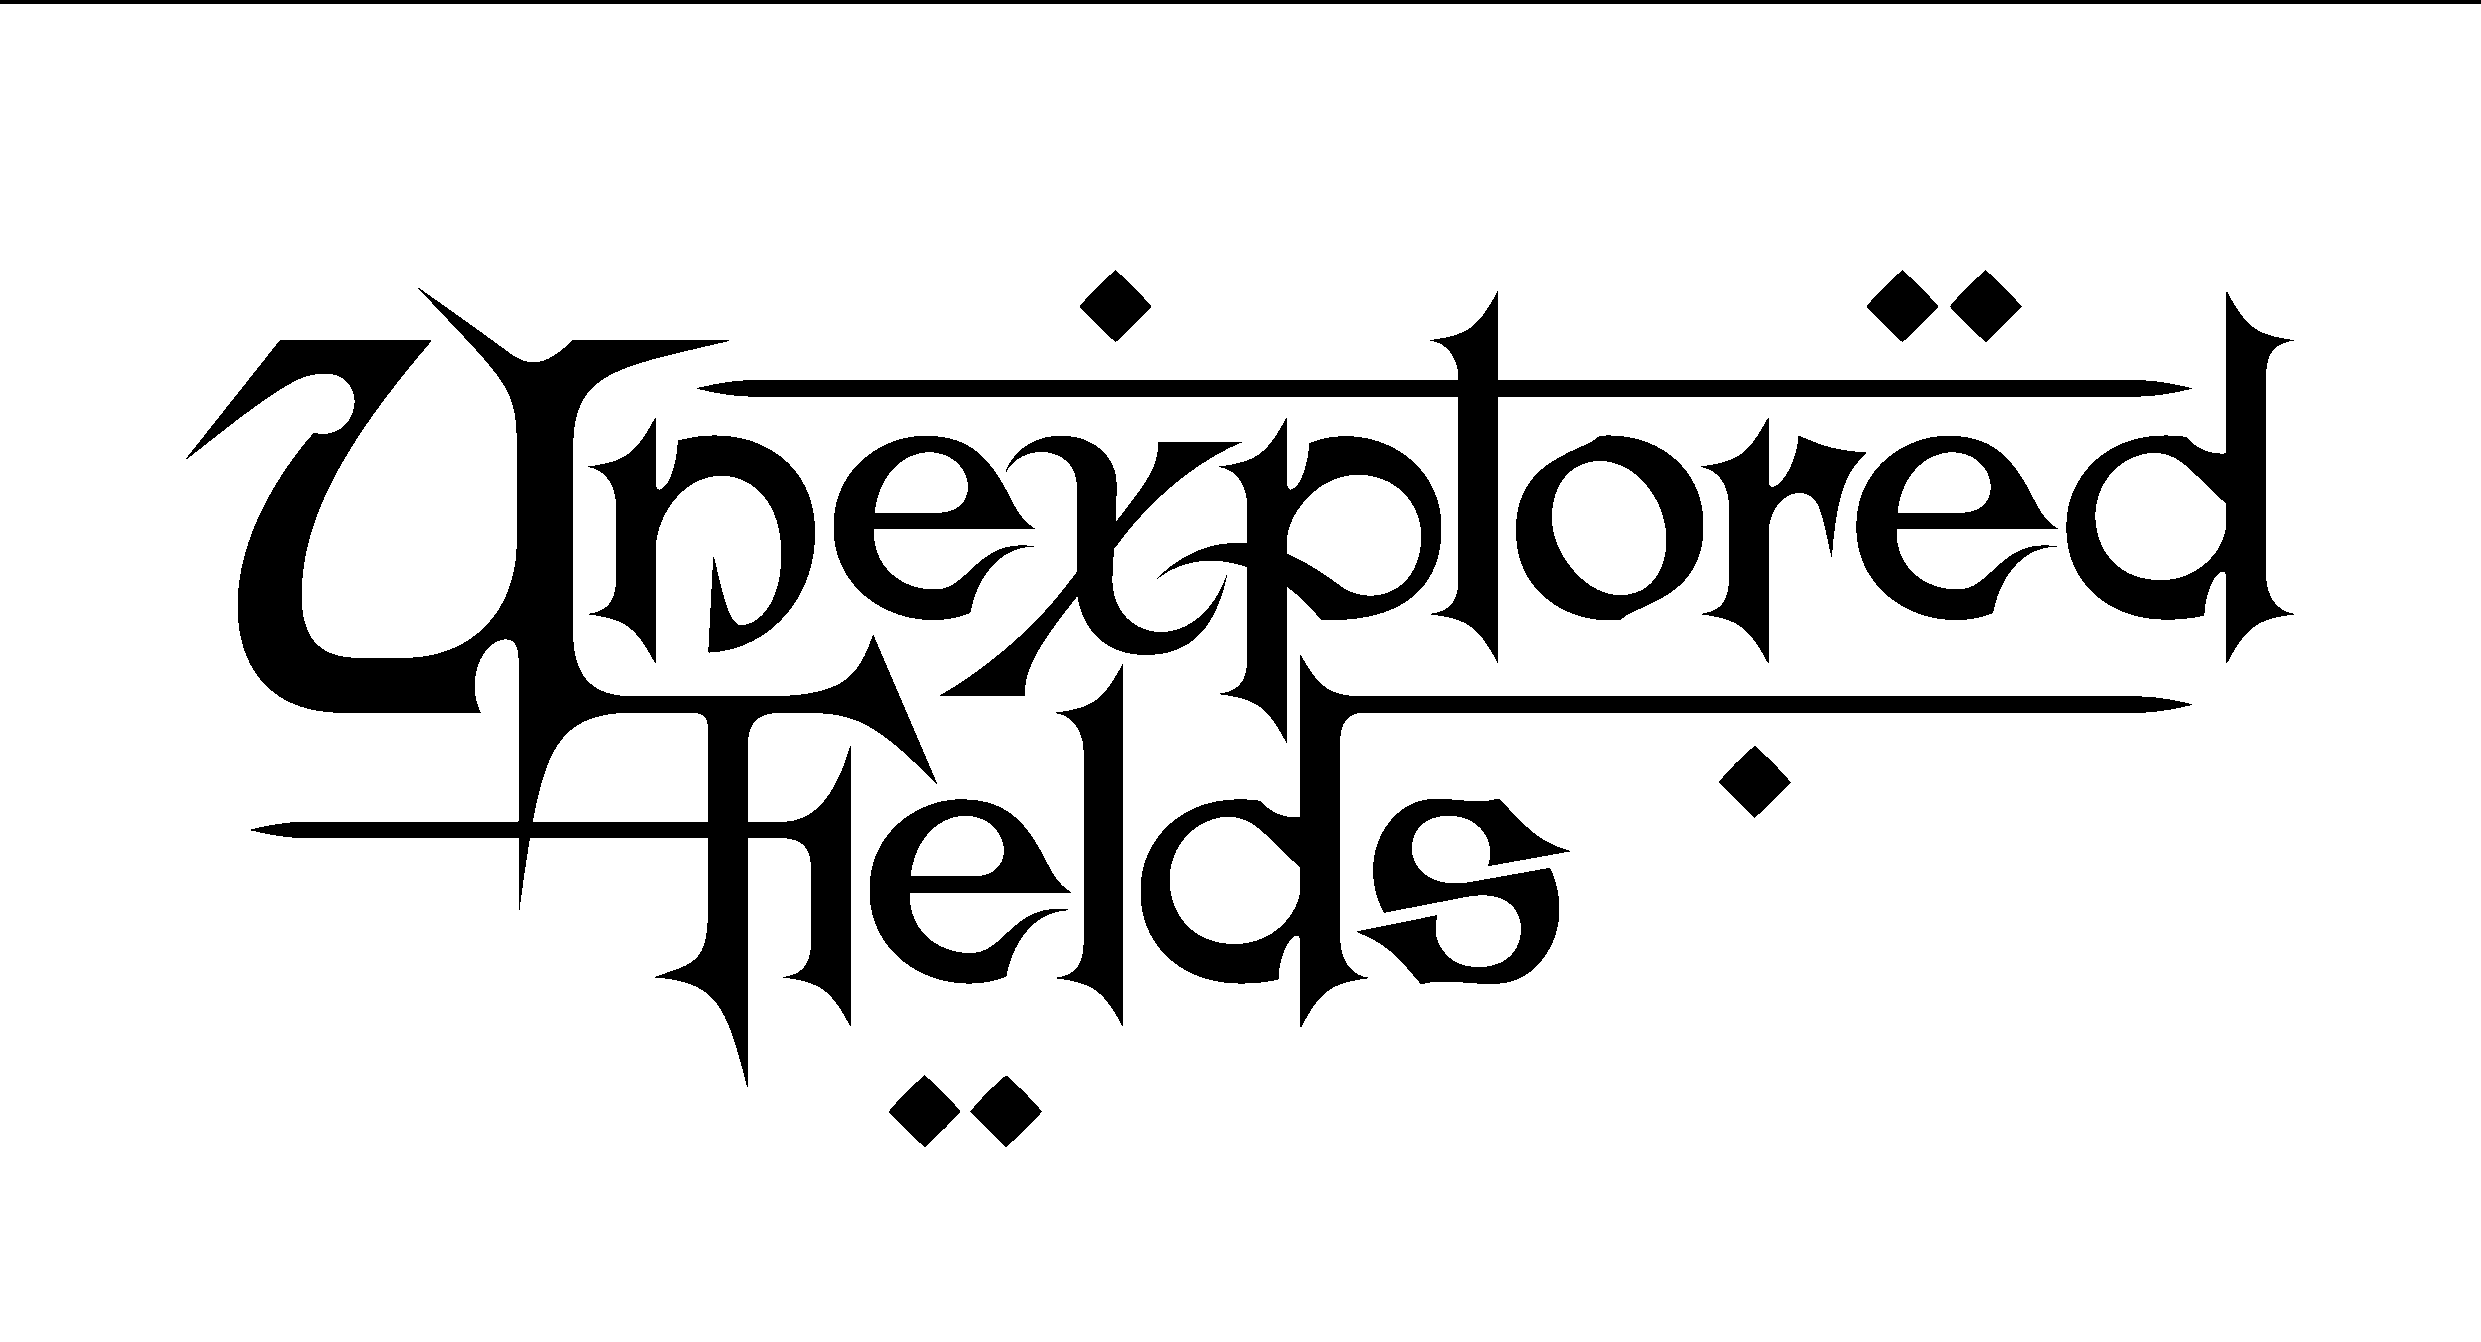
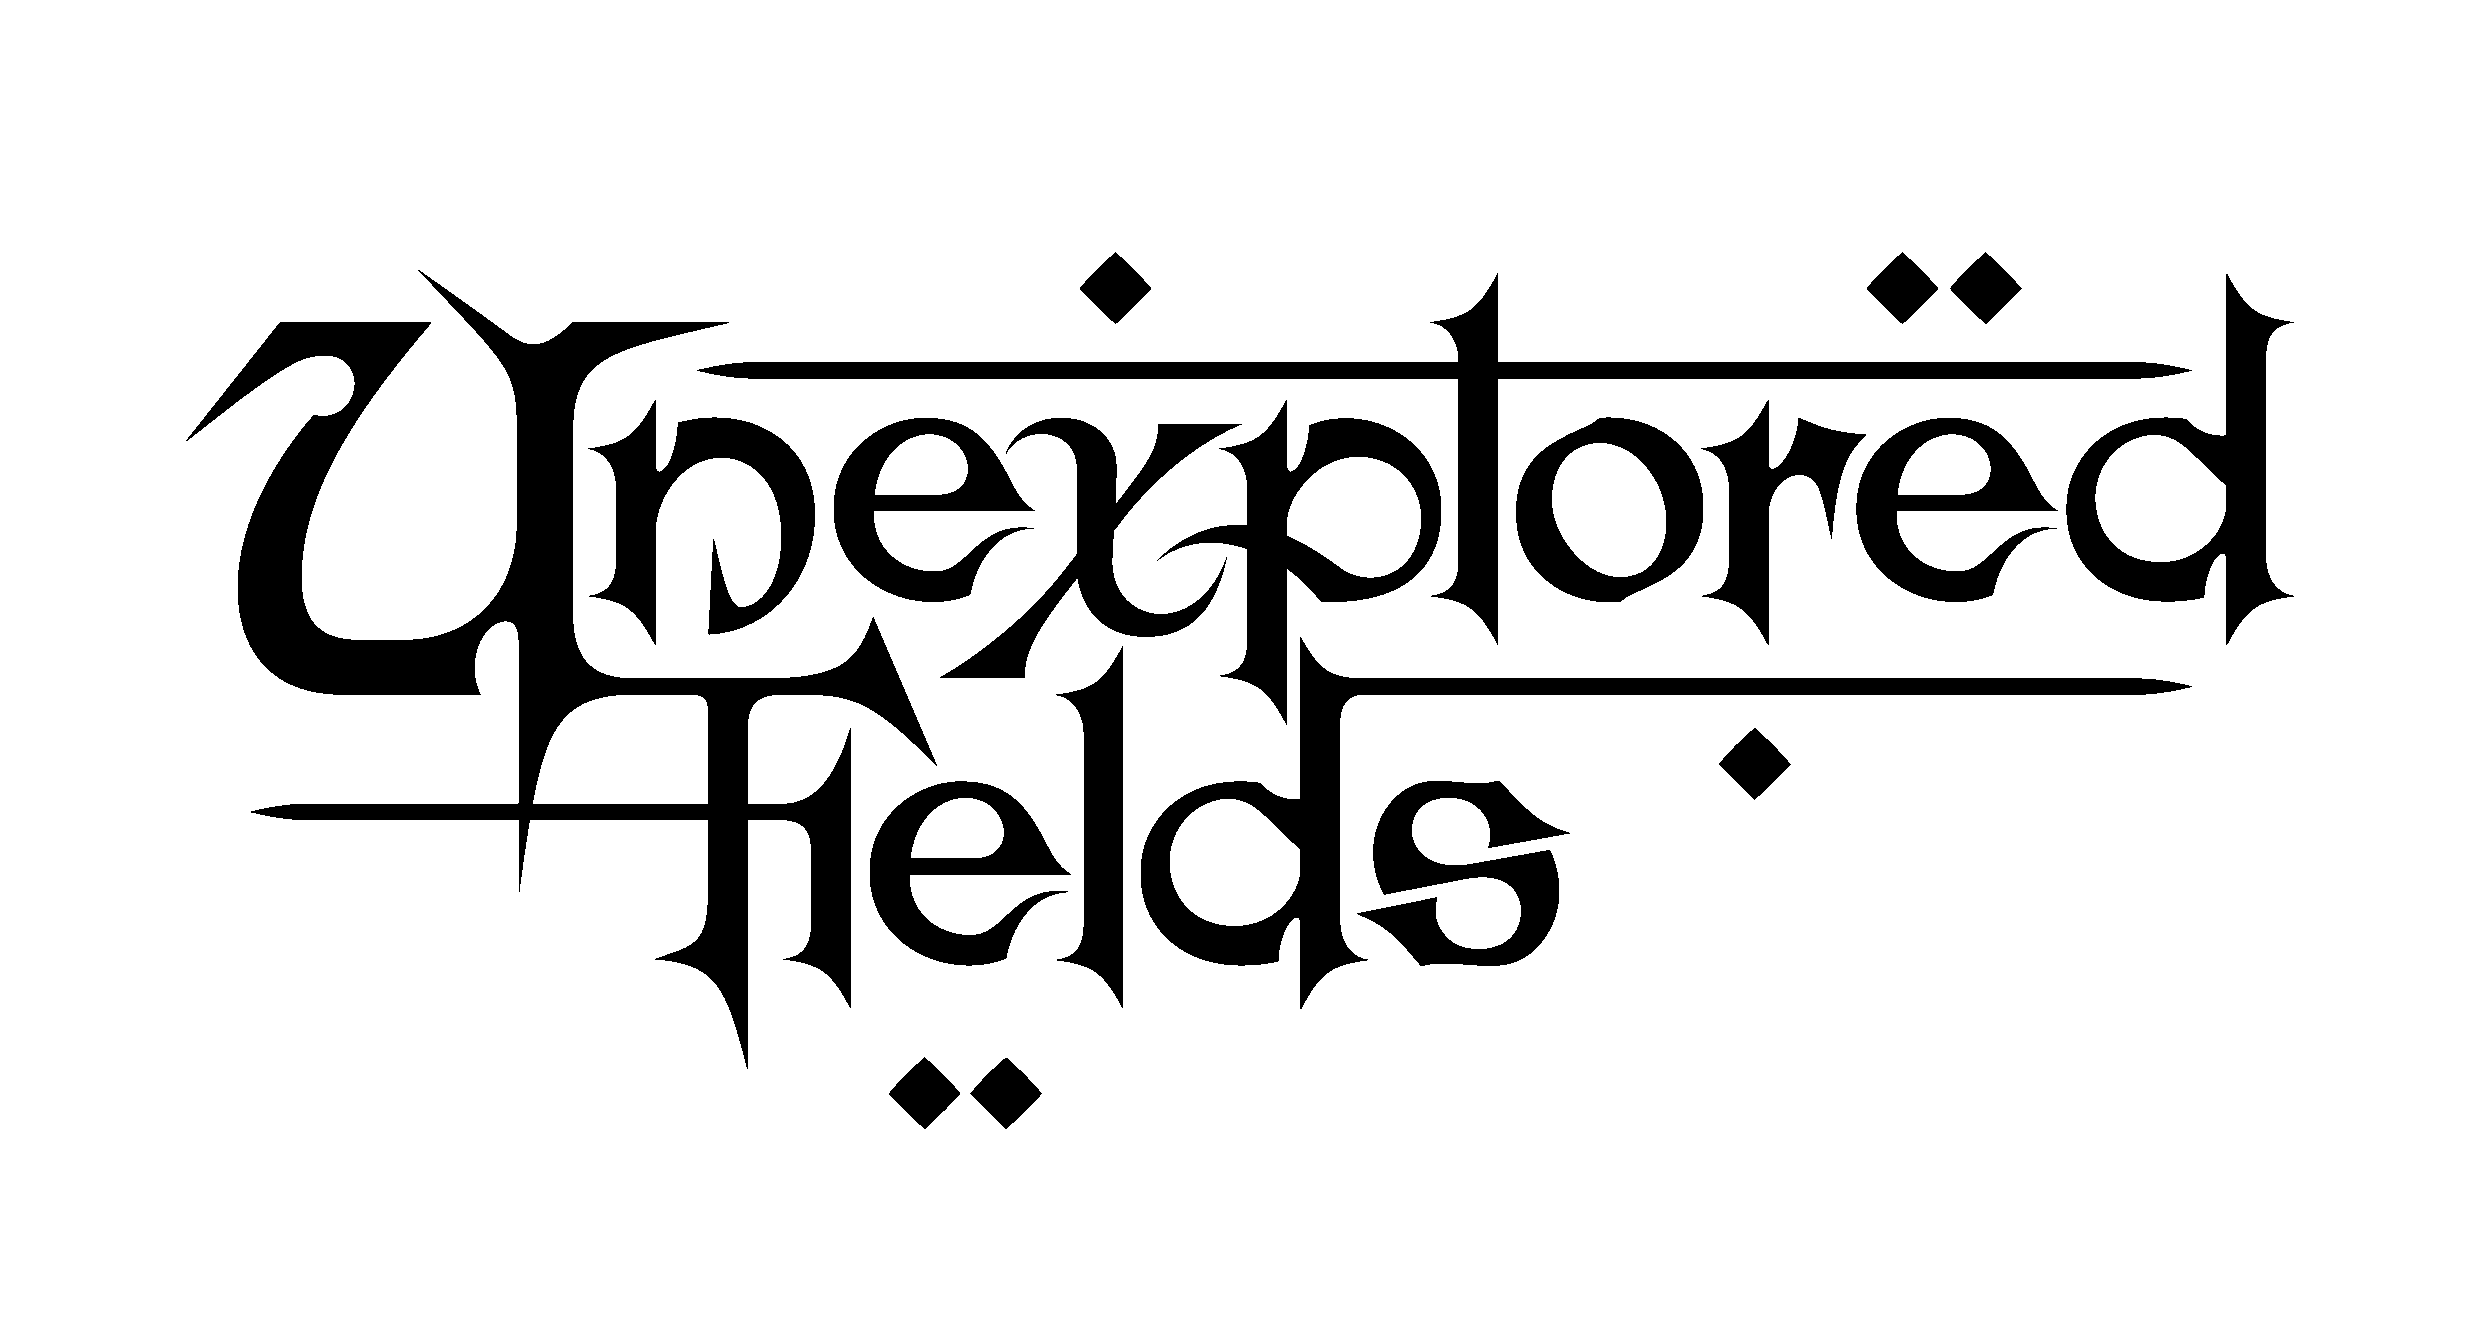
header OK

diff --git a/pages/index.vue b/pages/index.vue
@@ -3,15 +3,28 @@
     <header-scroll></header-scroll>
     <user-interface></user-interface>
       
+
+    <section class="ctn-main" v-if="this.getName('bio').on">
+      <div v-html="$store.state.Bio.descriptif"></div>
+    </section> 
       <br>
-      <p>aller</p>
-  <!-- VARIABILISER CSS -->
+<p style="font-size : 40px" class="ctn-main">
 
+  Lorem, ipsum dolor sit amet consectetur adipisicing elit. Aspernatur adipisci aperiam vitae? Voluptatem facere id incidunt iste eaque velit sint? Sequi optio quidem nesciunt, quasi aspernatur tenetur doloremque voluptatem magnam.
+  Lorem, ipsum dolor sit amet consectetur adipisicing elit. Aspernatur adipisci aperiam vitae? Voluptatem facere id incidunt iste eaque velit sint? Sequi optio quidem nesciunt, quasi aspernatur tenetur doloremque voluptatem magnam.
+  Lorem, ipsum dolor sit amet consectetur adipisicing elit. Aspernatur adipisci aperiam vitae? Voluptatem facere id incidunt iste eaque velit sint? Sequi optio quidem nesciunt, quasi aspernatur tenetur doloremque voluptatem magnam.
+  Lorem, ipsum dolor sit amet consectetur adipisicing elit. Aspernatur adipisci aperiam vitae? Voluptatem facere id incidunt iste eaque velit sint? Sequi optio quidem nesciunt, quasi aspernatur tenetur doloremque voluptatem magnam.
+  Lorem, ipsum dolor sit amet consectetur adipisicing elit. Aspernatur adipisci aperiam vitae? Voluptatem facere id incidunt iste eaque velit sint? Sequi optio quidem nesciunt, quasi aspernatur tenetur doloremque voluptatem magnam.
+  Lorem, ipsum dolor sit amet consectetur adipisicing elit. Aspernatur adipisci aperiam vitae? Voluptatem facere id incidunt iste eaque velit sint? Sequi optio quidem nesciunt, quasi aspernatur tenetur doloremque voluptatem magnam.
+  Lorem, ipsum dolor sit amet consectetur adipisicing elit. Aspernatur adipisci aperiam vitae? Voluptatem facere id incidunt iste eaque velit sint? Sequi optio quidem nesciunt, quasi aspernatur tenetur doloremque voluptatem magnam.
+  Lorem, ipsum dolor sit amet consectetur adipisicing elit. Aspernatur adipisci aperiam vitae? Voluptatem facere id incidunt iste eaque velit sint? Sequi optio quidem nesciunt, quasi aspernatur tenetur doloremque voluptatem magnam.
+  Lorem, ipsum dolor sit amet consectetur adipisicing elit. Aspernatur adipisci aperiam vitae? Voluptatem facere id incidunt iste eaque velit sint? Sequi optio quidem nesciunt, quasi aspernatur tenetur doloremque voluptatem magnam.
+  Lorem, ipsum dolor sit amet consectetur adipisicing elit. Aspernatur adipisci aperiam vitae? Voluptatem facere id incidunt iste eaque velit sint? Sequi optio quidem nesciunt, quasi aspernatur tenetur doloremque voluptatem magnam.
+  Lorem, ipsum dolor sit amet consectetur adipisicing elit. Aspernatur adipisci aperiam vitae? Voluptatem facere id incidunt iste eaque velit sint? Sequi optio quidem nesciunt, quasi aspernatur tenetur doloremque voluptatem magnam.
+  Lorem, ipsum dolor sit amet consectetur adipisicing elit. Aspernatur adipisci aperiam vitae? Voluptatem facere id incidunt iste eaque velit sint? Sequi optio quidem nesciunt, quasi aspernatur tenetur doloremque voluptatem magnam.
+  Lorem, ipsum dolor sit amet consectetur adipisicing elit. Aspernatur adipisci aperiam vitae? Voluptatem facere id incidunt iste eaque velit sint? Sequi optio quidem nesciunt, quasi aspernatur tenetur doloremque voluptatem magnam.
+</p>
 
-    <!--
-    <section v-if="state.bio">
-      <div v-html="bio.descriptif"></div>
-    </section> -->
     <!-- <user-interface :state="state"></user-interface> -->
     <!-- <site-header class="header" 
     :bio="bio" 
@@ -47,6 +60,7 @@
 </template>
 
 <script>
+import { mapGetters } from 'vuex'
 
 export default {
   data() {
@@ -61,6 +75,11 @@ export default {
       this.projetSwitch = !this.projetSwitch
     },
   },
+    computed: {
+    ...mapGetters({
+      getName: 'getName',
+    }),
+  }
 
 }
 </script>

diff --git a/components/HeaderScroll.vue b/components/HeaderScroll.vue
@@ -1,40 +1,84 @@
 <template>
-  <div class="ctn-main" id="headerscroll"><img src="~/static/uf-lettrage.png" alt="" /></div>
+  <div class="ctn-main" v-bind:style="hidden ? {display : 'none'} : {}">
+    <div v-bind:style="{ height: `calc(${hauteur}% - ( var(--gutter) * 2 )` }" id="headerscroll">
+      <img :src="hauteur > 20 ? ufLettrage : ufMono" alt="" />
+    </div>
+    <div id="headerscroll-ph"></div>
+  </div>
 </template>
 
 <script>
 export default {
-  data(){
-    return{
-      a : 1
+  data() {
+    return {
+      a: 1,
+      hauteur: 100,
+      hidden:false,
+      ufLettrage : require('~/static/uf-lettrage.png'),
+      ufMono : require('~/static/uf-mono.png')
     }
   },
   methods: {
-    handleScroll(){
-      this.a += 1
-    console.log(this.a)
-    }
+    handleScroll() {
+      // if(this.hauteur > 0){
+        if(window.top.scrollY < window.innerHeight){
 
+          this.hauteur = 100 - (window.top.scrollY / window.innerHeight) * 100
+        }
+        else (
+          this.hauteur = 0
+        )
+      // }
+      // else {
+        // this.hidden = true
+        // window.removeEventListener('scroll', this.handleScroll)
+      // }
+      console.log(this.hauteur)
+    },
   },
   beforeMount() {
-    window.addEventListener("scroll",this.handleScroll);
+    window.scrollTo(0,0)
+    window.addEventListener('scroll', this.handleScroll)
+    if(!window.top.scrollY){
+    }
+    else {
+      // this.hidden = true
+    }
+    console.log(window.top.scrollY)
   },
-  destroyed(){
-    window.removeEventListener("scroll",this.handleScroll);
-
-  }
-  
+  // destroyed() {
+  //   window.removeEventListener('scroll', this.handleScroll)
+  // },
 }
 </script>
 
 <style scoped>
-img{
-    margin-left: 50%;
-    transform: translateX(-50%);
-    width:100%;
+.phscroll {
+  height: calc(100vh + var(--gutter));
+}
+img {
+  margin-left: 50%;
+  transform: translateX(-50%);
+  width: 100%;
+  height: 100%;
+  object-fit: contain;
 }
 #headerscroll {
+  pointer-events: none;
+  width: 100%;
+  position: fixed;
+  top: var(--gutter);
   overflow-x: hidden;
-    background-color: var(--jaune);
+  background-color: var(--jaune);
+}
+#headerscroll-ph {
+  height: calc(100vh - var(--gutter));
+  width: 100%;
+  /* border: 10px solid red; */
+  position: static;
+}
+.ctn-main {
+  overflow-y: hidden;
+  overflow-x: hidden;
 }
 </style>

diff --git a/components/UserInterface.vue b/components/UserInterface.vue
@@ -2,16 +2,16 @@
   
   <div class="ctn-main" id="ctn-ui">
     <button @click="set('images')">
-      images {{ this.getName('images').on ? falsePh : truePh }}
+      images {{ this.getName('images').on ? truePh : falsePh }}
     </button>
     <button @click="set('bio')">
-      bio {{ this.getName('bio').on ? falsePh : truePh }}
+      bio {{ this.getName('bio').on ? truePh : falsePh }}
     </button>
     <button @click="set('clients')">
-      images {{ this.getName('clients').on ? falsePh : truePh }}
+      images {{ this.getName('clients').on ? truePh : falsePh }}
     </button>
     <button @click="set('darkmode')">
-      darkmode {{ this.getName('darkmode').on ? falsePh : truePh }}
+      darkmode {{ this.getName('darkmode').on ? truePh : falsePh }}
     </button>
   </div>
 </template>
@@ -21,9 +21,11 @@
 #ctn-ui {
   display: flex;
   align-items: stretch;
-  padding: 10px;
-  gap: 10px;
-
+  padding: var(--gutter);
+  gap: var(--gutter);
+  position: sticky;
+  margin-top: calc(-1 * var(--gutter));
+  top:var(--gutter)
 }
 button {
   

diff --git a/store/index.js b/store/index.js
@@ -7,7 +7,8 @@ export const state = () => ({
 		{nom : 'darkmode', on : true}
 	]
 	,
-	db: []
+	Projets: [],
+	Bio: [],
 
 })
 
@@ -37,7 +38,8 @@ export const mutations = {
 					}
 				}
 		}
-		state.db = data.Projets.data
+		state.Bio = data.Bio.data
+		state.Projets = data.Projets.data
 	}
 
 }
@@ -47,8 +49,9 @@ export const actions = {
 			const Projets = await axios.get('https://porte-secrete.unexploredfields.com/items/Projets')
 			const Clients = await axios.get('https://porte-secrete.unexploredfields.com/items/Clients')
 			const Images = await axios.get('https://porte-secrete.unexploredfields.com/items/Images?fields=*.*')
+			const Bio = await axios.get('https://porte-secrete.unexploredfields.com/items/bio')
 
-			commit('SORT_FETCH', {Projets : Projets.data, Clients : Clients.data, Images: Images.data})
+			commit('SORT_FETCH', {Projets : Projets.data, Clients : Clients.data, Images: Images.data, Bio: Bio.data})
 		}
 		catch (error) {
 			console.log('error', error)

diff --git a/assets/css/global.css b/assets/css/global.css
@@ -1,9 +1,14 @@
 @import url('https://fonts.googleapis.com/css2?family=IBM+Plex+Mono&family=Libre+Baskerville:ital@0;1&display=swap');
 body {
   margin: 0;
+  min-height: 100vh;
+  overflow-x: hidden;
+
 }
 .ctn-main {
-  width: calc(100vw - var(gutter) * 2);
+  overflow-x: hidden;
+  box-sizing: border-box;
+  width: calc(100vw - ( var(--gutter) * 2 ));
   margin: var(--gutter);
 }
 
@@ -32,7 +37,7 @@ p,a,li, table {
   opacity: 0;
 }
 
-.projet:hover .titre, a:hover, button:hover{
+.projet:hover .titre, a:hover{
   font-style: italic;
 }
 

diff --git a/components/SiteFooter.vue b/components/SiteFooter.vue
@@ -36,8 +36,6 @@ align-self: center ;
 }
 .wrapper {
   width: 100%;
-  position: absolute;
-  bottom: 0;
 
 }
 .el {
